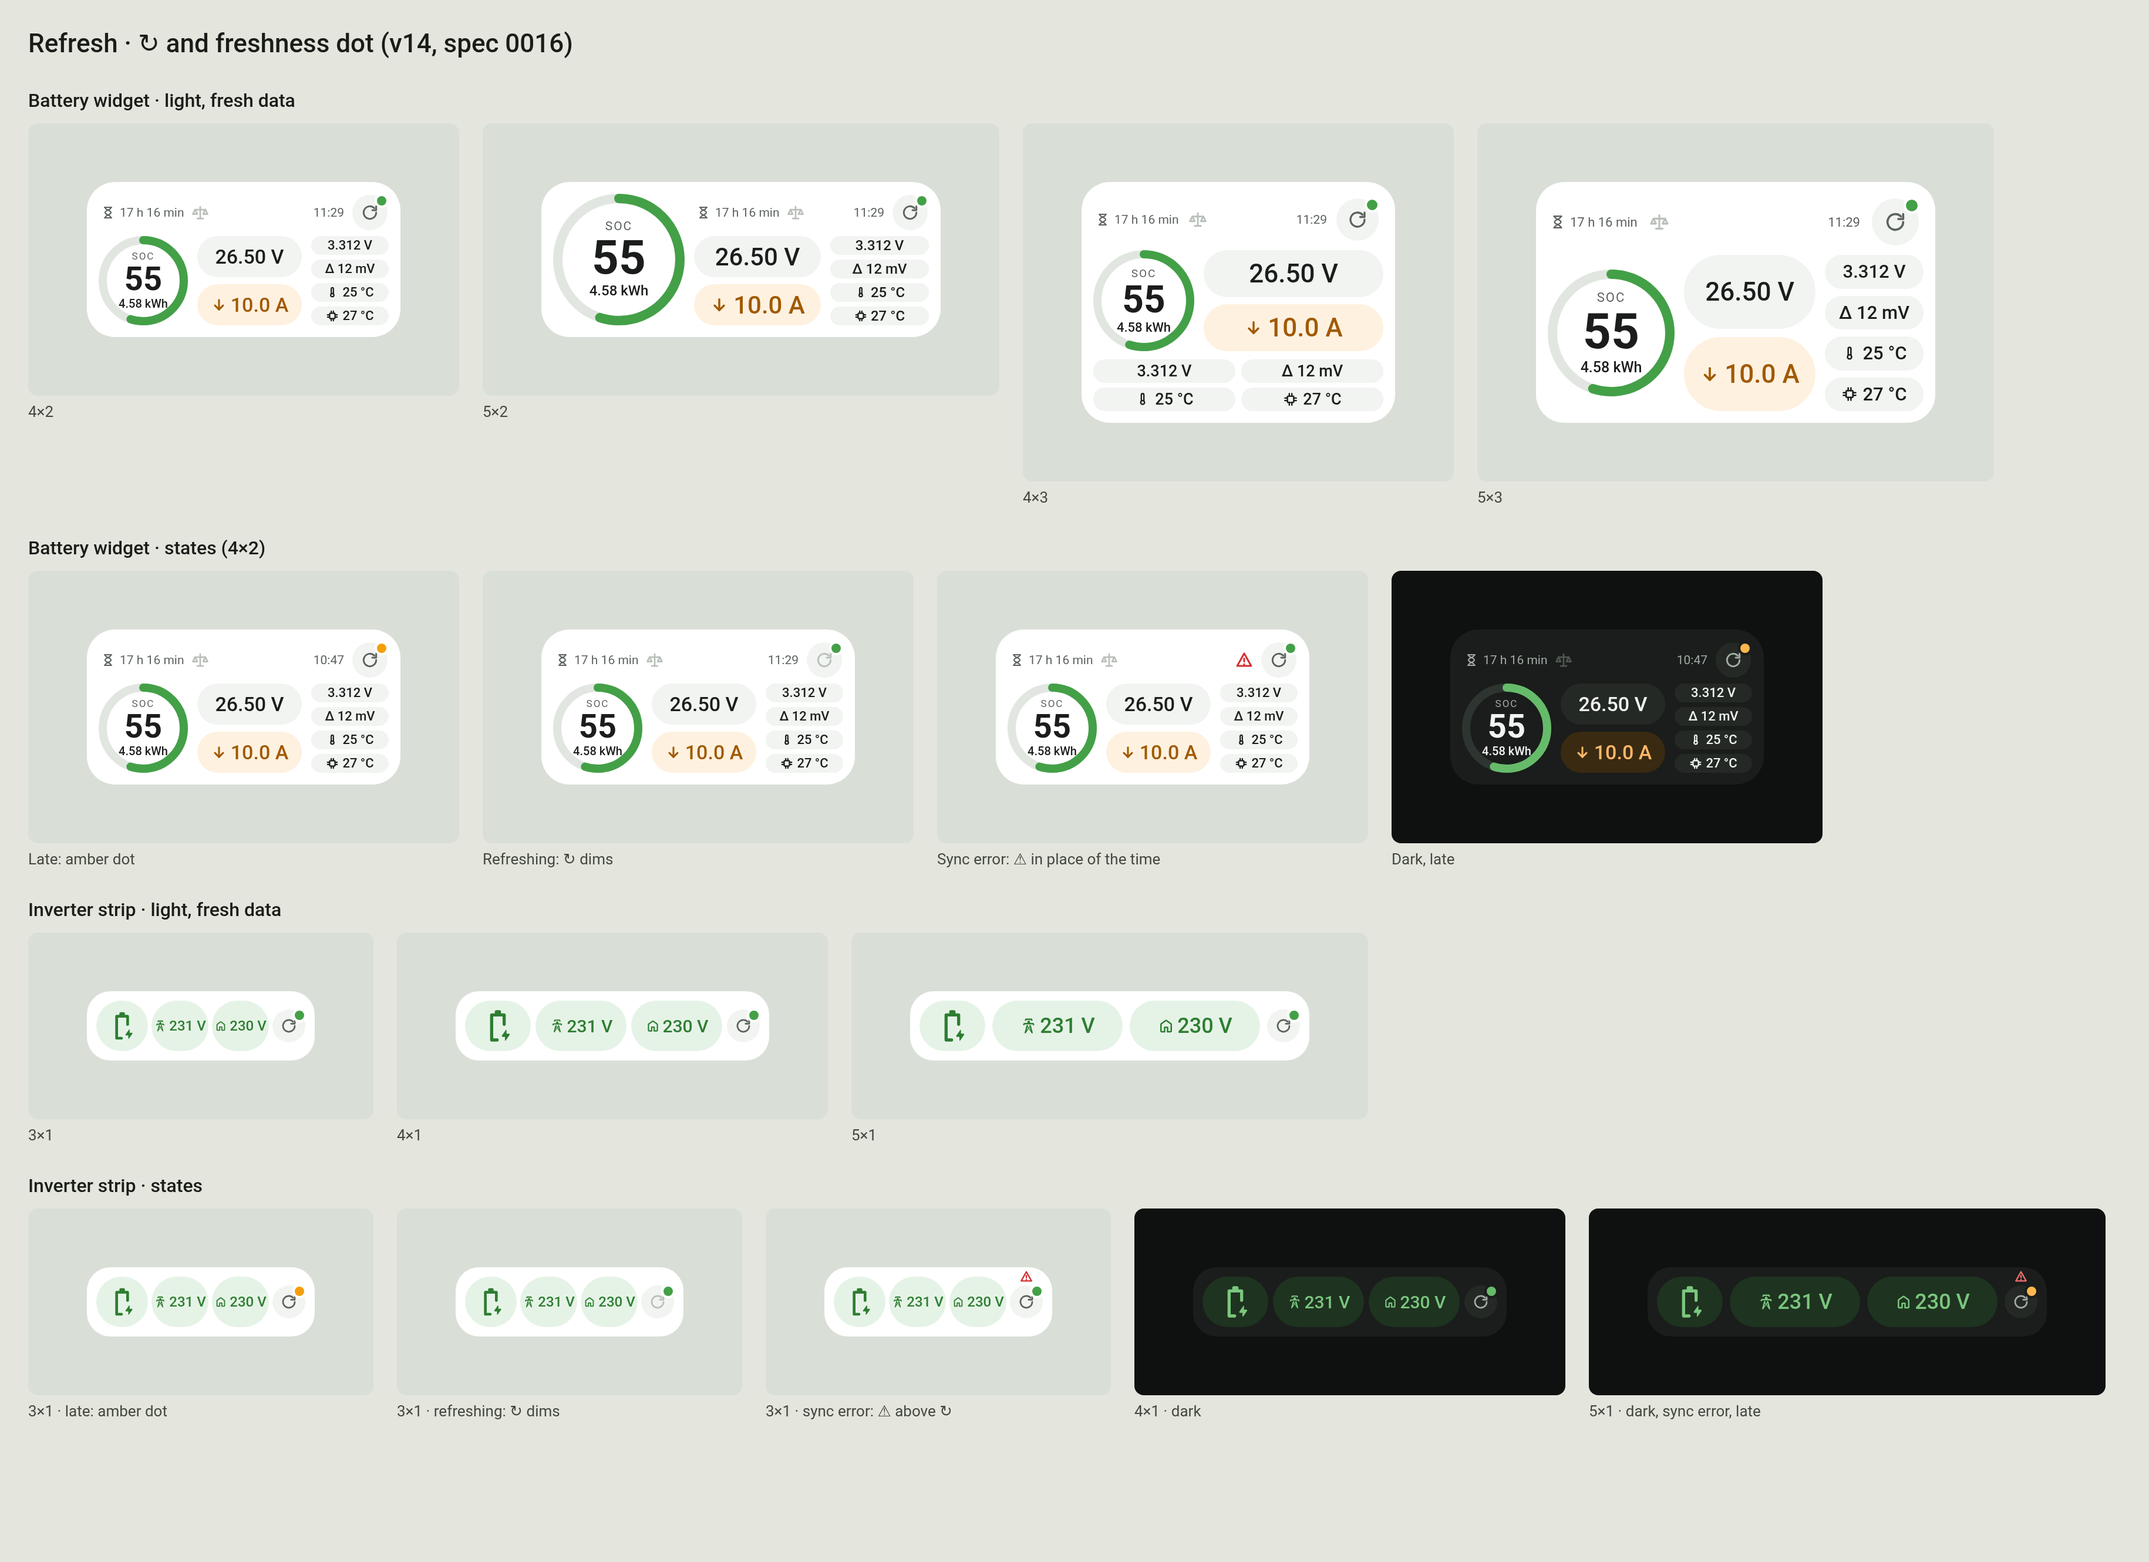
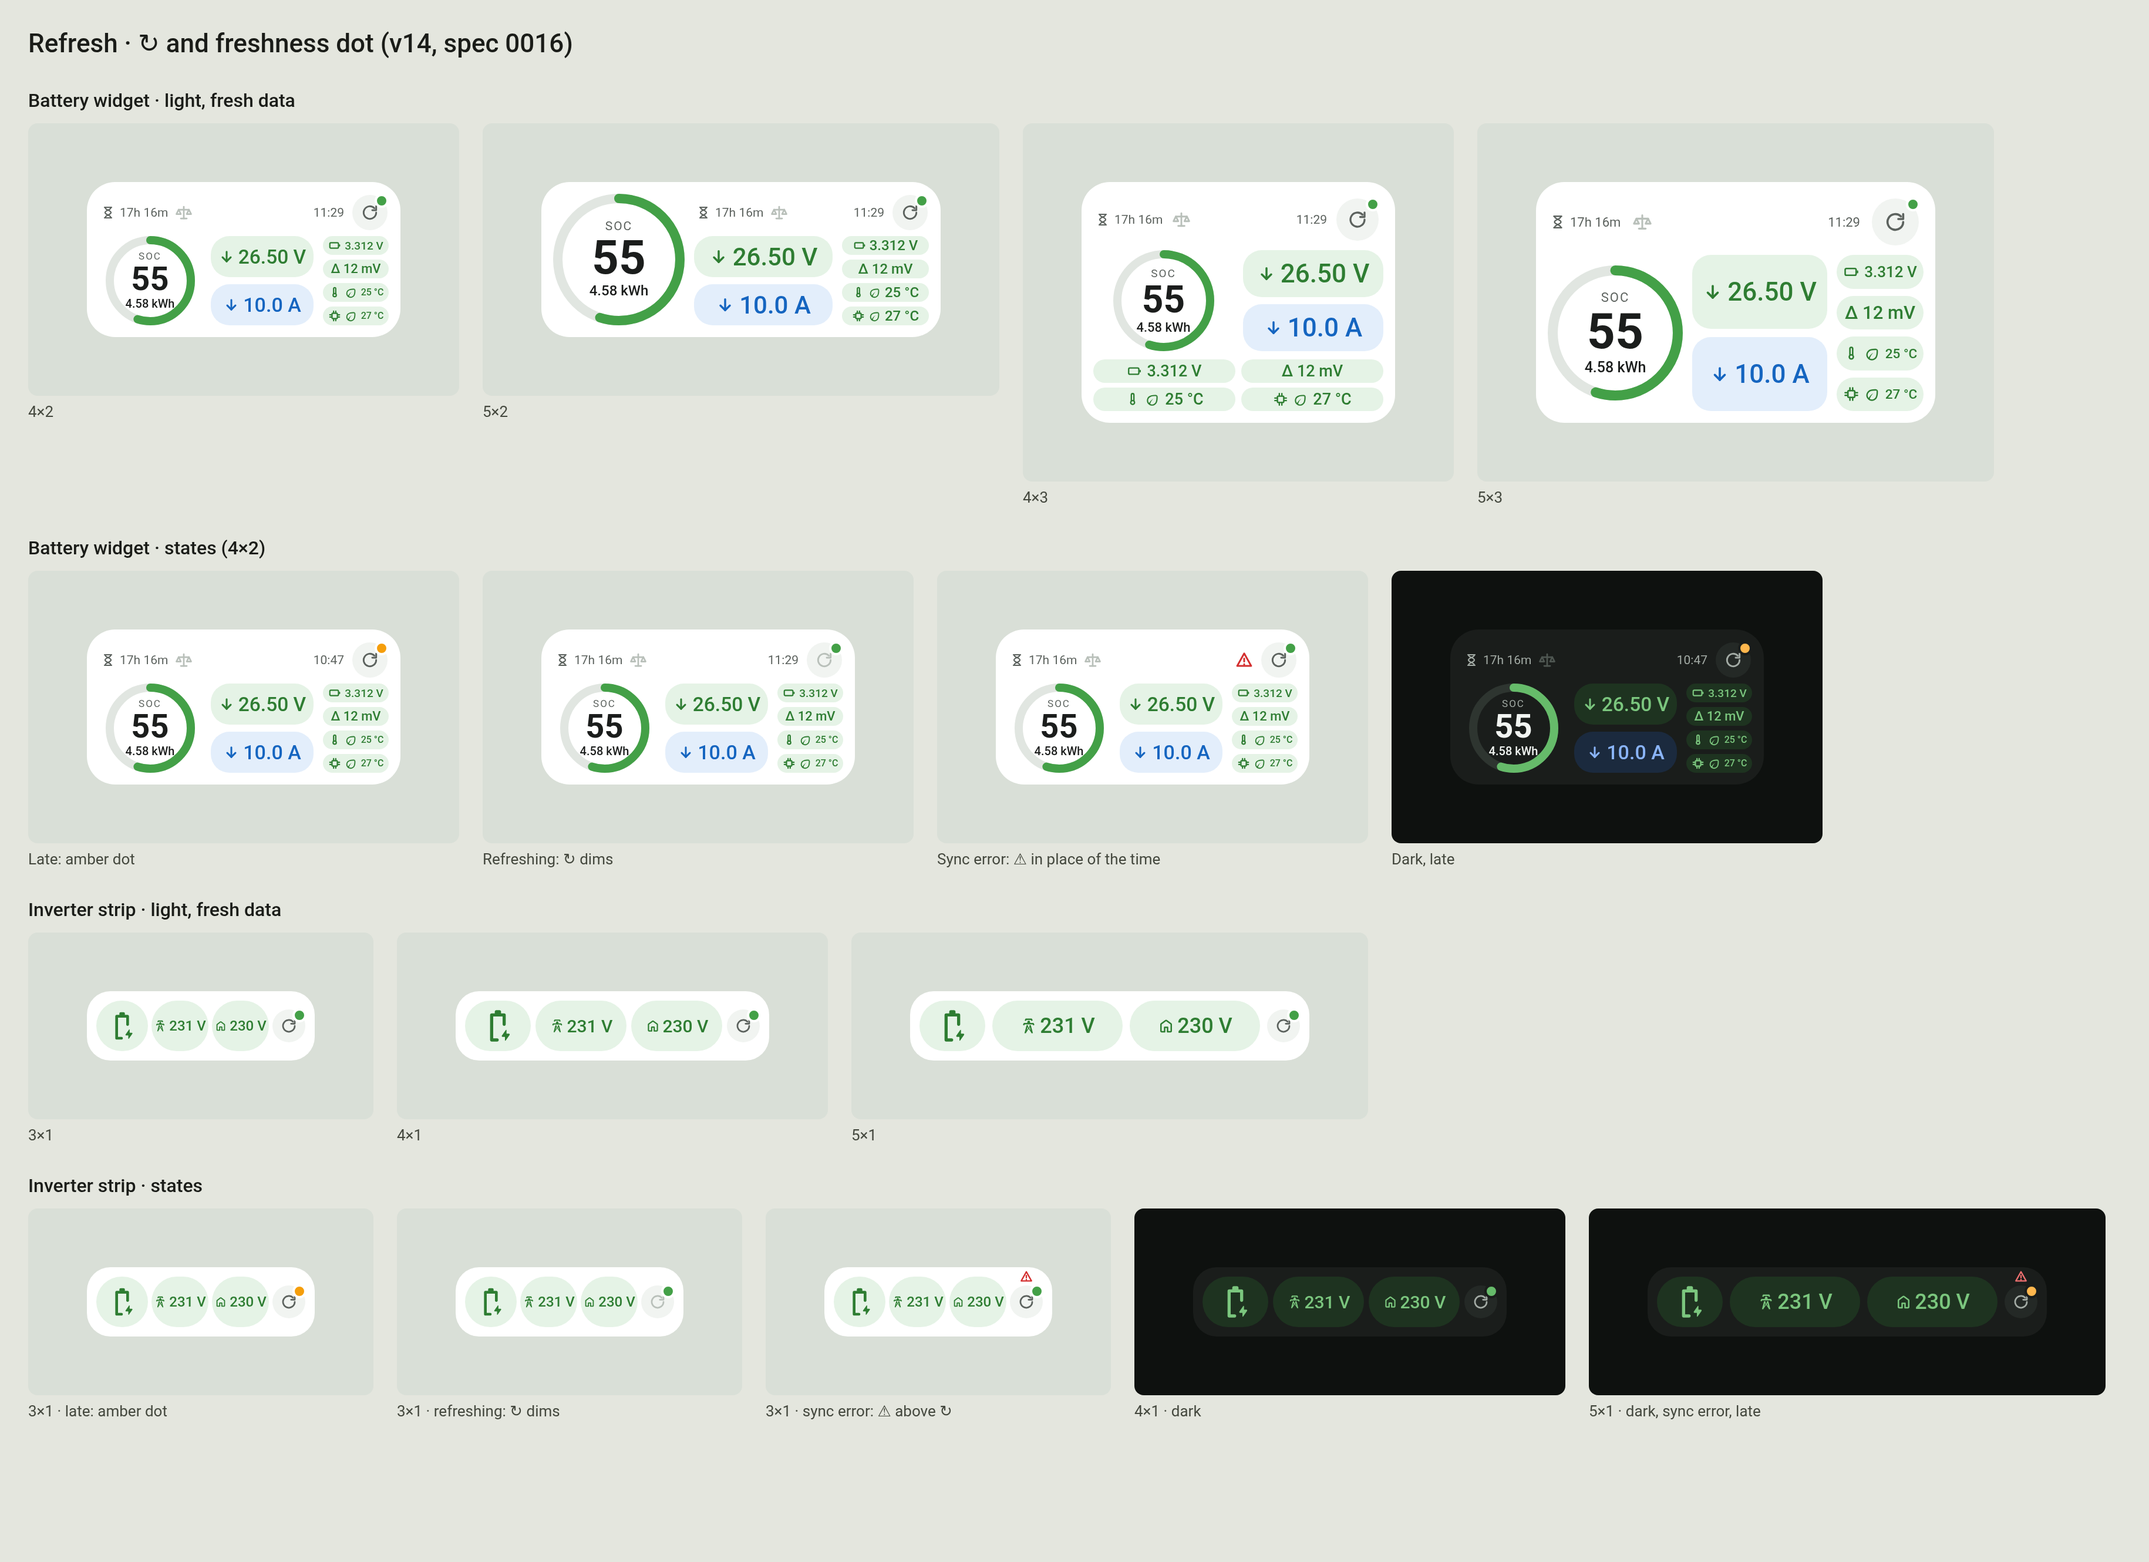
docs(design): Show the widgets as built

diff --git a/docs/design/README.md b/docs/design/README.md
@@ -6,13 +6,13 @@ end, "Inverter strip". The app's Modes section (spec 0014) follows it,
 next, "App icon". The refresh controls of both widgets (↻ and the freshness
 dot, spec 0016) come last, "Refresh".
 
-Status: approved (v5), built in spec 0005 (layouts); temperatures in
-spec 0004. Built before: v4 (one 4×2 layout, spec 0003).
+Status: built (layouts spec 0005, temperatures 0004, value colours and
+levels 0010–0013, ↻ and the freshness dot 0016).
 
-The design was made on a design canvas; this folder keeps the latest
-version in the repo. Current version: **v5**. On the canvas the v5 row has
-one column per size: light, dark, sync error light, sync error dark. Git
-keeps the older versions of this folder (v4 up to commit d1cf5fc:
+The design lives on a design canvas that holds only the current design, in
+sections: Battery widget, Inverter strip, Inverter modes, Mode editor (app),
+App icon, Icon ideas, Widget family. This folder keeps its copy in the
+repo; git keeps the older versions (v4 up to commit d1cf5fc:
 `widget-4x2.html` and an older `widget-4x2.png`).
 
 | File | What it is |
@@ -22,9 +22,10 @@ keeps the older versions of this folder (v4 up to commit d1cf5fc:
 | `widget-4x3.png` | 4×3, card 267 × 205 dp: the same four frames |
 | `widget-5x3.png` | 5×3, card 340 × 205 dp: the same four frames |
 
-The PNGs are rendered at 2× scale; 1 px of the design = 1 dp. Since
-spec 0016 they show the v14 top row (one ↻ with the freshness dot, see
-"Refresh"); the rest is v5.
+The PNGs are rendered at 2× scale from the canvas boards; 1 px of the
+design = 1 dp. They show the widget as built: the top row with one ↻ and
+the freshness dot ("Refresh"), and the default level colours ("Colours and
+levels") for a LiFePO4 pack of 8 cells and 314 Ah.
 
 ![Widget 4×2](widget-4x2.png)
 ![Widget 5×2](widget-5x2.png)
@@ -59,7 +60,7 @@ current, then cell details.
 All sizes in dp. Gaps: 8 between ring, pack and cells; 4 under the top row
 (4×3: 7 between the upper part and the cell grid). Except in 5×2, ring and
 pack share the width the cells leave equally, and the ring fills its column
-up to the row height (owner, 2026-11-16; the PNGs show the older widths).
+up to the row height (owner, 2026-11-16).
 4×2 is too narrow for the 5×2 layout (the top row needs about 200 dp beside
 the ring), so its top row spans the full width and the ring sits below it.
 
@@ -157,17 +158,114 @@ every id can also be typed by hand.
 
 ## Colours and levels
 
+Each value has **levels** (specs 0010, 0013). A level has a side, an edge,
+a type and a colour; temperature levels also have an icon. A **↓ level**
+covers its edge and everything below it, an **↑ level** its edge and
+everything above it, and the one **middle level** (no edge) what is left.
+The widget picks the level by the number as it shows it: the ↓ level with
+the smallest edge at or above the number, else the ↑ level with the largest
+edge at or below it, else the middle level. The owner can replace a value's
+levels in the app (Battery tab, "Levels and alerts", Edit); "Default" brings
+back the built-in ones below.
+
 | Element | Rule |
 |---|---|
-| SOC ring | green ≥ 25 %, amber < 25 %, red < 15 % |
-| Current / power pill | amber when discharging, green when charging, grey when idle |
-| Delta pill | plain ≤ 15 mV, amber > 15 mV, red > 40 mV |
-| Battery temperature pill | shows the average; the colour comes from the worst sensor (spec 0004): amber below 5 °C or above 45 °C; red at 0 °C or below, or above 55 °C |
-| MOSFET pill | amber above 65 °C, red above 80 °C |
-| Sync error icon | red ⚠ |
-| Balancing icon | green when on, grey when off |
-| Freshness dot | 8 dp with a 2 dp ring in the card colour, on the ↻ circle's top-right edge: ring-bar green while fresh, amber ring colour when late |
-| Refresh button | grey; dimmed while refreshing |
+| SOC ring | The arc takes the ring shade of the SOC level. The number stays in the text colour |
+| Voltage pill | Voltage levels. The current's arrow (↑ charging, ↓ discharging) shows here too |
+| Current / power pill | Idle (\|I\| ≤ 0.1 A): grey, no arrow. Charging: the charge levels; discharging: the discharge levels. Picked in amps, also when the pill shows watts |
+| Average cell pill | A battery outline icon before the value. The voltage levels with each edge ÷ the cells, rounded to 3 decimals; no own list |
+| Delta pill | Delta levels; no icon |
+| Battery temperature pill | Thermometer, then the level icon. Shows the average of the sensors; colour and icon come from the sensor whose level ranks worst |
+| MOSFET pill | Chip, then the level icon |
+| kWh / Ah under SOC | Plain (it repeats SOC) |
+| A missing value | "—" in plain, e.g. "Δ —" |
+| Sync error icon | Red ⚠ (the `bad` token) in the update time's place |
+| Balancing icon | Accent green when on; dim when off or unknown |
+| Refresh button (↻) | Secondary grey; dim while refreshing |
+| Freshness dot | 8 dp with a 2 dp ring in the card colour, on the ↻ circle's top-right edge: the green ring shade while fresh, the amber ring shade when late (spec 0016) |
+
+**Colour by type:** Critical red, Warning amber, Normal green, Info blue.
+A level can take another colour instead: plain (no colour) or one of the
+palette below. The level editor offers every colour but teal, which is for
+the inverter modes (Standby by default).
+
+| Colour | Light text / background / ring | Dark text / background / ring |
+|---|---|---|
+| Plain | `#1B1D1C` / `#F1F4F1` / `#43A047` | `#F1F4F1` / `#242926` / `#66BB6A` |
+| Red | `#D32F2F` / `#FDE7E7` / `#D32F2F` | `#EF7070` / `#3D1E1E` / `#EF7070` |
+| Orange | `#C2410C` / `#FFE9DD` / `#E8590C` | `#FF9A66` / `#3D2215` / `#FB8C4A` |
+| Amber | `#A05A00` / `#FFF1E0` / `#F59E0B` | `#FFB869` / `#3A2A12` / `#FFB74D` |
+| Green | `#2E7D32` / `#E5F3E6` / `#43A047` | `#7BC67E` / `#1E3320` / `#66BB6A` |
+| Teal | `#00796B` / `#E0F2F1` / `#26A69A` | `#5FC4B8` / `#15302D` / `#4DB6AC` |
+| Blue | `#1565C0` / `#E3EEFB` / `#1E88E5` | `#8AB4F8` / `#1B2A3E` / `#64B5F6` |
+| Violet | `#6B3FB8` / `#EFE7FB` / `#8E5CD9` | `#B99CF2` / `#2B2240` / `#A788EC` |
+| Grey | `#5C625E` / `#F1F4F1` / `#858C87` | `#A3ABA5` / `#242926` / `#6B736D` |
+
+**Temperature level icons** (Material Symbols Rounded, in the pill's text
+colour, 11–14 dp as the thermometer): snowflake (`ac_unit`) for cold levels,
+leaf (`eco`) for normal, flame (`local_fire_department`) for warm, flame
+with alert (`emergency_heat`) for hot. The icon shows the side, the colour
+how bad it is. A temperature pill always shows two icons.
+
+### Default levels
+
+The pictures show the default setup: battery type LiFePO4 (the app's
+default), the preview pack of 8 cells (26.50 V, 3.312 V average cell) and
+314 Ah. "Covers" uses the numbers as shown.
+
+| Value | Level | Covers | Name | Type (colour) | Icon |
+|---|---|---|---|---|---|
+| SOC | ↓20 % | 20 % and below | Low | Critical (red) | |
+| | ↓40 % | 21–40 % | Getting low | Warning (amber) | |
+| | middle | 41–99 % | Normal | Normal (green) | |
+| | ↑100 % | 100 % | Full | Info (blue) | |
+| Voltage (8 cells) | ↓24.00 V | 24.00 V and below | Low | Critical (red) | |
+| | ↓25.60 V | 24.01–25.60 V | Getting low | Warning (amber) | |
+| | middle | 25.61–27.59 V | Normal | Normal (green) | |
+| | ↑27.60 V | 27.60–28.39 V | Full | Info (blue) | |
+| | ↑28.40 V | 28.40–29.19 V | High | Warning (amber) | |
+| | ↑29.20 V | 29.20 V and above | Very high | Critical (red) | |
+| Average cell | ↓3.000 / ↓3.200 / middle / ↑3.450 / ↑3.550 / ↑3.650 V | the voltage levels ÷ 8 | as voltage | as voltage | |
+| Charge and discharge current (314 Ah) | ↓62.8 A | 62.8 A and below | Light | Info (blue) | |
+| | middle | 62.9–156.9 A | Normal | Normal (green) | |
+| | ↑157.0 A | 157.0–251.1 A | High | Warning (amber) | |
+| | ↑251.2 A | 251.2 A and above | Very high | Critical (red) | |
+| Cell delta | ↓9 mV | 9 mV and below | Balanced | Info (blue) | |
+| | middle | 10–19 mV | Normal | Normal (green) | |
+| | ↑20 mV | 20–49 mV | High | Warning (amber) | |
+| | ↑50 mV | 50 mV and above | Very high | Critical (red) | |
+| Battery temperature | ↓0 °C | 0 °C and below | Freezing | Critical (red) | snowflake |
+| | ↓5 °C | 1–5 °C | Cool | Info (blue) | snowflake |
+| | middle | 6–44 °C | Normal | Normal (green) | leaf |
+| | ↑45 °C | 45–54 °C | Warm | Warning (amber) | flame |
+| | ↑55 °C | 55 °C and above | Hot | Critical (red) | flame with alert |
+| MOSFET temperature | middle | 64 °C and below | Normal | Normal (green) | leaf |
+| | ↑65 °C | 65–79 °C | Warm | Warning (amber) | flame |
+| | ↑80 °C | 80 °C and above | Hot | Critical (red) | flame with alert |
+
+So the default preview is all green except the current: 10 A is "Light"
+(blue).
+
+**What the edges depend on** (spec 0013). SOC, delta and both temperatures
+are the same for every pack. The voltage edges are volts per cell × the
+cells in series; the current edges are a C-rate × the full capacity:
+
+| Type | Volts per cell (↓Low, ↓Getting low, ↑Full, ↑High, ↑Very high) | Charge C-rates (↓Light, ↑High, ↑Very high) | Discharge C-rates |
+|---|---|---|---|
+| LiFePO4 | 3.00, 3.20, 3.45, 3.55, 3.65 | 0.2, 0.5, 0.8 | 0.2, 0.5, 0.8 |
+| Li-ion (NMC) | 3.40, 3.60, 4.10, 4.15, 4.20 | 0.2, 0.5, 0.8 | 0.4, 1.0, 1.3 |
+| LTO | 2.00, 2.20, 2.65, 2.70, 2.80 | 0.4, 1.0, 5.0 | 0.4, 1.0, 6.0 |
+
+- **Cells:** total voltage ÷ average cell voltage of the reading, rounded;
+  the typed cell count only when the reading cannot count them. Pack edges
+  are rounded to 2 decimals. No cell count: the voltage has one plain
+  "Normal" level, and the average cell pill is plain.
+- **Capacity:** the BMS capacity sensor when it reports more than 0 Ah,
+  else the capacity typed in the app. Current edges are rounded to 0.1 A.
+  No capacity: one level per direction, charging green and discharging
+  amber.
+- The type is the Pack setting "Type"; a type change gives new default
+  edges, and own levels stay as they are.
 
 Theme tokens (light / dark) are the same as in v4:
 
@@ -202,21 +300,19 @@ The app theme is green; no blue.
 - The app shows the real widget as its preview (Glance `compose()`, spec
   0006), so there is no second drawing to keep in sync.
 
-## Inverter strip — 3×1, 4×1, 5×1 (v6)
+## Inverter strip — 3×1, 4×1, 5×1
 
-Status: approved (v6 layout and v7 modes, 2026-11-19), for spec 0012; not
-built yet. A second widget with its own settings tab. On the canvas the v6
-row has one column per size and eight lines (both mode styles, light,
-dark, sync error); the v7 row shows every inverter mode at 4×1 (big icon
-light and dark, icon + word in English and Ukrainian) and at 3×1
-(Ukrainian words).
+Status: built (spec 0012; ↻ and the freshness dot spec 0016). A second
+widget with its own settings tab. On the canvas the section "Inverter strip"
+has the three sizes, light and dark, plus the sync error; "Inverter modes"
+shows every mode on the 4×1 strip.
 
 | File | What it is |
 |---|---|
-| `inverter-3x1.png` | 3×1, card 194 × 59 dp: eight frames (see the captions), with ↻ and the freshness dot (v14) |
+| `inverter-3x1.png` | 3×1, card 194 × 59 dp: eight frames (see the captions), with ↻ and the freshness dot |
 | `inverter-4x1.png` | 4×1, card 267 × 59 dp: the same eight frames |
 | `inverter-5x1.png` | 5×1, card 340 × 59 dp: the same eight frames |
-| `inverter-modes.png` | Every mode (rows) in five looks (columns), cards only; drawn before ↻ (v7): it shows the modes, not the layout |
+| `inverter-modes.png` | Every mode (rows) on the 4×1 strip with ↻: big icon light, icon + word light, big icon dark |
 
 Rendered at 2× scale, like the battery pictures.
 
@@ -278,14 +374,13 @@ The numbers were confirmed on the owner's phone on 2026-11-21 (3×1, 4×1,
 | Unknown mode text | `help` icon, grey; with "icon + word" the HA text as it is |
 | No data yet / setup needed | The tower icon and one line: "No data" or "Set up in the app"; no button |
 
-## Mode editor — Modes section of the Inverter tab (v9)
+## Mode editor — Modes section of the Inverter tab
 
 Status: approved by the owner (2026-11-21), for spec 0014. v9 reworks v8
 after the owner's phone check: the right side of the rows, type tags, the
 current mode, shorter "other" words. An app screen, not a widget: the
-Modes section on the Inverter tab, below Icons. On the canvas the v9 row
-("Mode editor · v9") also shows the option the owner did not pick (B: only
-the "now" badge, no ring). Git keeps v8 (three light frames) in the older
+Modes section on the Inverter tab, below Icons. On the canvas the section
+"Mode editor (app)" holds the picked option A. Git keeps v8 (three light frames) in the older
 `mode-editor.png`.
 
 | File | What it is |
@@ -328,7 +423,7 @@ behaviour; this picture shows the layout.
 - **New mode:** bell off, type Info, `help` icon, grey; a blank name shows
   its first text ("Utility").
 
-## App icon — House of tiles (v12, version A)
+## App icon — House of tiles (version A)
 
 Status: approved by the owner (2026-11-21), for spec 0015. Picked from 20
 ideas on the canvas: v10 (battery marks) and v11 (smart-home marks). The
@@ -365,13 +460,11 @@ Rendered at 2× scale from the canvas boards; 1 px of the design = 1 dp.
   and "~". Both are white 24-dp masks. The circle keeps its colour: the
   type colour for levels, the mode colour for modes.
 
-## Refresh — ↻ and freshness dot (v14)
+## Refresh — ↻ and freshness dot
 
-Status: approved by the owner (2026-11-22), for spec 0016; not built yet.
-On the canvas the row "Refresh · v14 · ↻ and freshness dot" holds the
-picked design only: battery 4×2, 5×2, 4×3, 5×3, strip 3×1, 4×1, 5×1 and a
-sync error of each widget, in a light and a dark line. The battery boards
-keep the v5 look: the level colours of specs 0010–0013 are not drawn there.
+Status: built (spec 0016). On the canvas it is part of the sections
+"Battery widget" and "Inverter strip" (every size, light and dark, plus a
+sync error of each widget).
 
 | File | What it is |
 |---|---|
